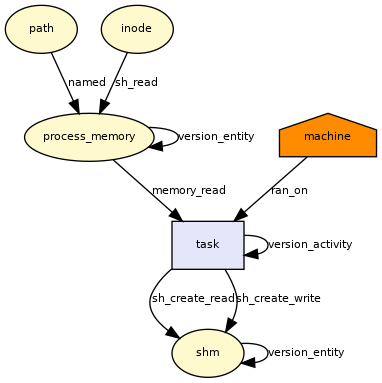
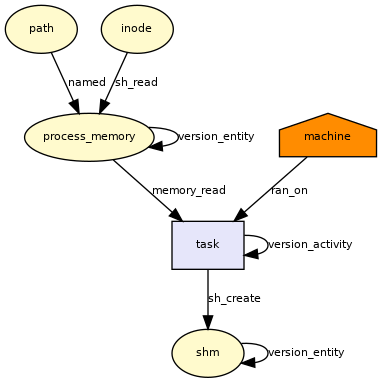
RL_STR_SH_CREATE_READ, RL_STR_SH_CREATE_WRITE -> RL_STR_SH_CREATE

Changed region(s): [[0.3743, 0.718, 0.8351, 0.8616], [0.4031, 0.8329, 0.4895, 0.8903], [0.4319, 0.6893, 0.4607, 0.718]]

diff --git a/security/provenance/type.c b/security/provenance/type.c
@@ -99,8 +99,7 @@ static const char RL_STR_ENV[] = "env";                                         
 static const char RL_STR_LOG[] = "log";                                                                 // connect string to task
 static const char RL_STR_SH_ATTACH_READ[] = "sh_attach_read";                                           // attach sh with read perm
 static const char RL_STR_SH_ATTACH_WRITE[] = "sh_attach_write";                                         // attach sh with write perm
-static const char RL_STR_SH_CREATE_READ[] = "sh_create_read";                                           // sh create with read perm
-static const char RL_STR_SH_CREATE_WRITE[] = "sh_create_write";                                         // sh create with write perm
+static const char RL_STR_SH_CREATE[] = "sh_create";                                                     // sh create perm
 static const char RL_STR_LOAD_FILE[] = "load_file";                                                     // load file into kernel
 static const char RL_STR_RAN_ON[] = "ran_on";                                                           // task run on this machine
 static const char RL_STR_LOAD_UNKNOWN[] = "load_unknown";                                               // load file into kernel
@@ -322,10 +321,8 @@ const char *relation_str(uint64_t type)
 		return RL_STR_SH_ATTACH_READ;
 	case RL_SH_ATTACH_WRITE:
 		return RL_STR_SH_ATTACH_WRITE;
-	case RL_SH_CREATE_READ:
-		return RL_STR_SH_CREATE_READ;
-	case RL_SH_CREATE_WRITE:
-		return RL_STR_SH_CREATE_WRITE;
+	case RL_SH_CREATE:
+		return RL_STR_SH_CREATE;
 	case RL_LOAD_FILE:
 		return RL_STR_LOAD_FILE;
 	case RL_LOAD_UNKNOWN:
@@ -459,8 +456,7 @@ uint64_t relation_id(const char *str)
 	MATCH_AND_RETURN(str, RL_STR_LOG, RL_LOG);
 	MATCH_AND_RETURN(str, RL_STR_SH_ATTACH_READ, RL_SH_ATTACH_READ);
 	MATCH_AND_RETURN(str, RL_STR_SH_ATTACH_WRITE, RL_SH_ATTACH_WRITE);
-	MATCH_AND_RETURN(str, RL_STR_SH_CREATE_READ, RL_SH_CREATE_READ);
-	MATCH_AND_RETURN(str, RL_STR_SH_CREATE_WRITE, RL_SH_CREATE_WRITE);
+	MATCH_AND_RETURN(str, RL_STR_SH_CREATE, RL_SH_CREATE);
 	MATCH_AND_RETURN(str, RL_STR_LOAD_FILE, RL_LOAD_FILE);
 	MATCH_AND_RETURN(str, RL_STR_LOAD_UNKNOWN, RL_LOAD_UNKNOWN);
 	MATCH_AND_RETURN(str, RL_STR_LOAD_FIRMWARE, RL_LOAD_FIRMWARE);

diff --git a/include/uapi/linux/provenance_types.h b/include/uapi/linux/provenance_types.h
@@ -98,14 +98,13 @@
 #define RL_SETUID                               (RL_GENERATED | (0x0000000000000001ULL << 23))
 #define RL_SETGID                               (RL_GENERATED | (0x0000000000000001ULL << 24))
 #define RL_SH_ATTACH_WRITE                      (RL_GENERATED | (0x0000000000000001ULL << 25))
-#define RL_SH_CREATE_READ                       (RL_GENERATED | (0x0000000000000001ULL << 26))
-#define RL_SH_CREATE_WRITE                      (RL_GENERATED | (0x0000000000000001ULL << 27))
-#define RL_FILE_LOCK                            (RL_GENERATED | (0x0000000000000001ULL << 28))
-#define RL_MUNMAP                               (RL_GENERATED | (0x0000000000000001ULL << 29))
-#define RL_SPLICE_OUT                           (RL_GENERATED | (0x0000000000000001ULL << 30))
-#define RL_EXEC_TASK                            (RL_GENERATED | (0x0000000000000001ULL << 31))
-#define RL_PTRACE_ATTACH                        (RL_GENERATED | (0x0000000000000001ULL << 32))
-#define RL_GENERATED_DISC                       (RL_GENERATED | (0x0000000000000001ULL << 33))
+#define RL_SH_CREATE                                            (RL_GENERATED | (0x0000000000000001ULL << 26))
+#define RL_FILE_LOCK                            (RL_GENERATED | (0x0000000000000001ULL << 27))
+#define RL_MUNMAP                               (RL_GENERATED | (0x0000000000000001ULL << 28))
+#define RL_SPLICE_OUT                           (RL_GENERATED | (0x0000000000000001ULL << 29))
+#define RL_EXEC_TASK                            (RL_GENERATED | (0x0000000000000001ULL << 30))
+#define RL_PTRACE_ATTACH                        (RL_GENERATED | (0x0000000000000001ULL << 31))
+#define RL_GENERATED_DISC                       (RL_GENERATED | (0x0000000000000001ULL << 32))
 /* no more than 51!!!! */
 
 /* USED SUBTYPES */

diff --git a/security/provenance/hooks.c b/security/provenance/hooks.c
@@ -1861,13 +1861,9 @@ static int provenance_shm_alloc_security(struct kern_ipc_perm *shp)
 	init_provenance_struct(ENT_SHM, sprov);
 	prov_elt(sprov)->shm_info.mode = shp->mode;
 	spin_lock_irqsave_nested(prov_lock(cprov), irqflags, PROVENANCE_LOCK_PROC);
-	rc = generates(RL_SH_CREATE_READ, cprov, tprov, sprov, NULL, 0);
-	if (rc < 0)
-		goto out;
-	rc = generates(RL_SH_CREATE_WRITE, cprov, tprov, sprov, NULL, 0);
-out:
+	rc = generates(RL_SH_CREATE, cprov, tprov, sprov, NULL, 0);
 	spin_unlock_irqrestore(prov_lock(cprov), irqflags);
-	return 0;
+	return rc;
 }
 
 /*!

diff --git a/docs/RELATIONS.md b/docs/RELATIONS.md
@@ -87,8 +87,7 @@ RL_ENV|env|connect env value to process|
 RL_LOG|log|connect string to task|
 RL_SH_ATTACH_READ|sh_attach_read|attach sh with read perm|
 RL_SH_ATTACH_WRITE|sh_attach_write|attach sh with write perm|
-RL_SH_CREATE_READ|sh_create_read|sh create with read perm|
-RL_SH_CREATE_WRITE|sh_create_write|sh create with write perm|
+RL_SH_CREATE|sh_create|sh create perm|
 RL_LOAD_FILE|load_file|load file into kernel|
 RL_RAN_ON|ran_on|task run on this machine|
 RL_LOAD_UNKNOWN|load_unknown|load file into kernel|

diff --git a/CHANGES.md b/CHANGES.md
@@ -56,6 +56,8 @@
 
 ## v0.7.3
 ```
+- Simplify relations that can be inferred from the flag attributes
+-- RL_SH_CREATE_READ & RL_SH_CREATE_WRITE -> RL_SH_CREATE
 - Protect epoch update with RCU.
 - Epoch starts from zero instead of one (0 before daemon, 1 after daemon start).
 - Consider node version for edge compression.
